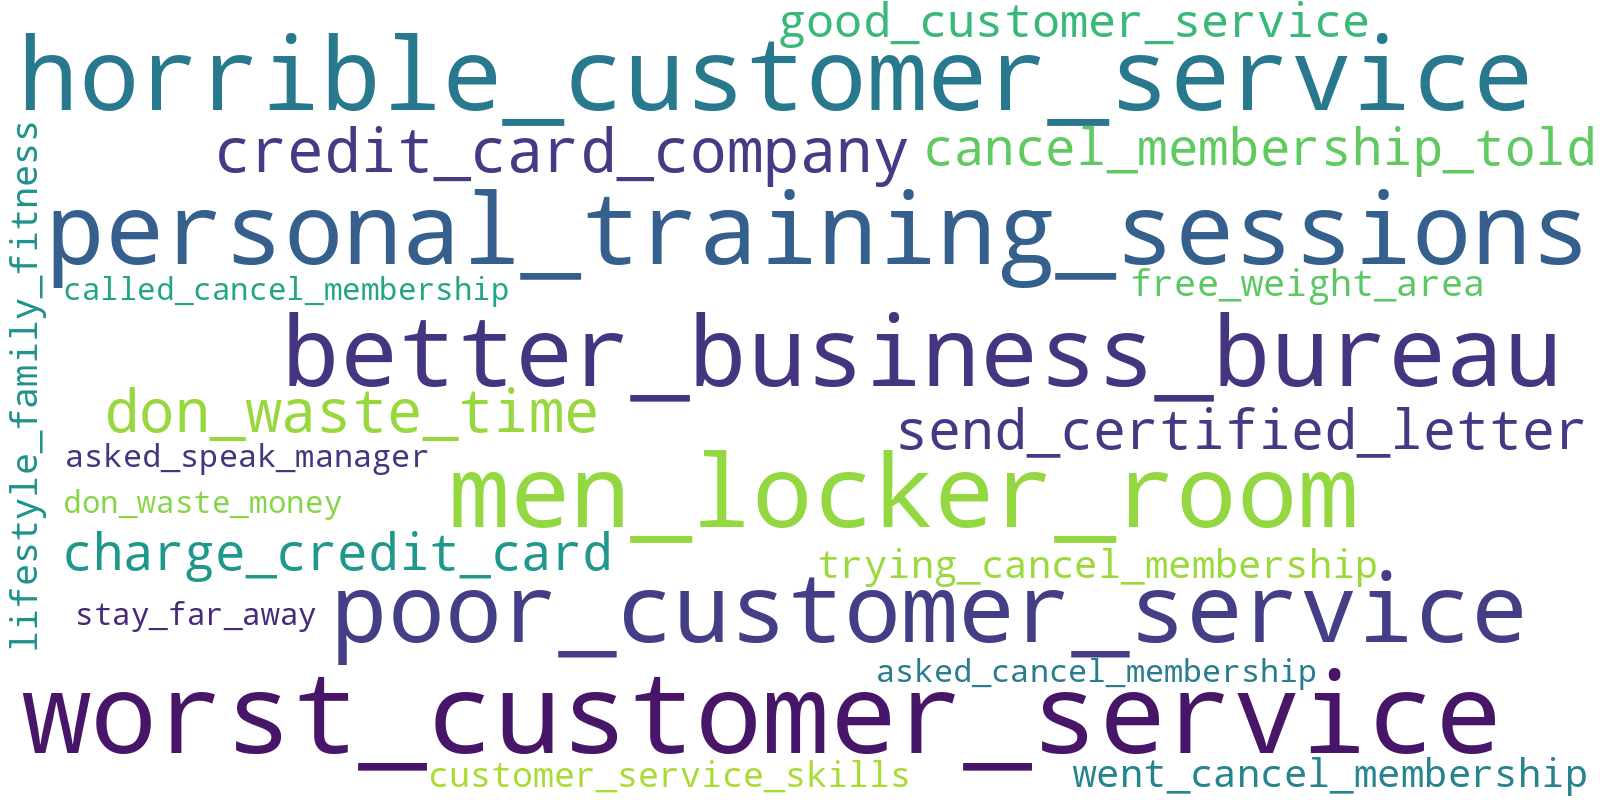
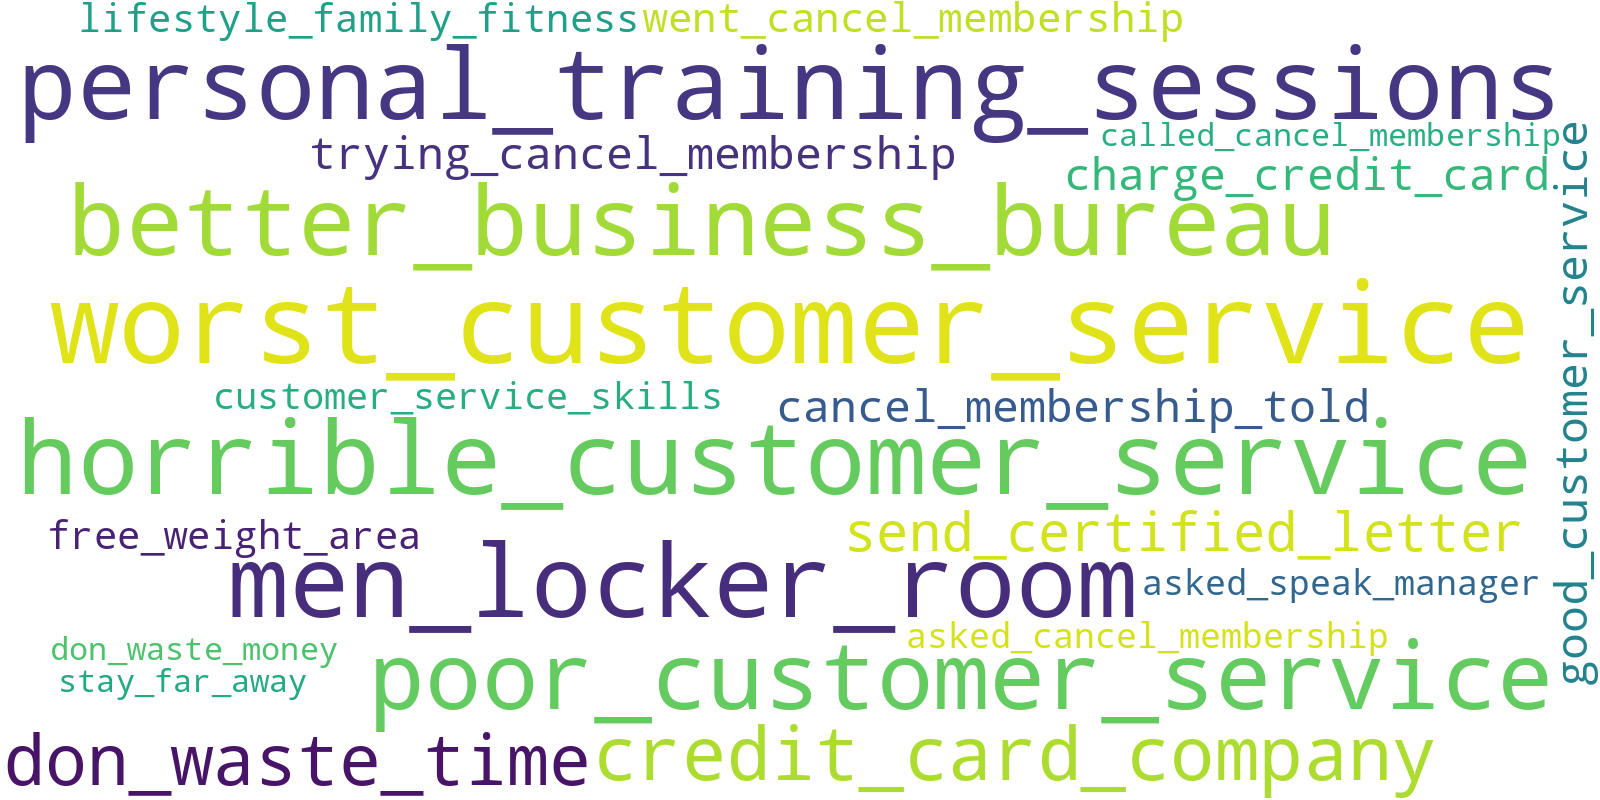
Adding NLP process to readme, removing parallelism on db creation, fixing image files creation

diff --git a/jsons.py b/jsons.py
@@ -361,29 +361,45 @@ def populate_user_table() -> None:
     print("Successfully populated the user table")
 
 
+# def transform_json_to_sql() -> None:
+#     print("Creating database:")
+#     create_db()
+#     print("Database created successfully\nPopulating tables")
+#     with ProcessPoolExecutor() as e:
+#         futures = [
+#             e.submit(populate_business_table),
+#             e.submit(populate_review_table),
+#             e.submit(populate_tip_table),
+#             e.submit(populate_user_table)
+#         ]
+        
+#         dones, _ = wait(futures)
+
+#         for done in dones:
+#             try:
+#                 done.result()
+#             except FileNotFoundError:
+#                 print("Some file(s) from the Yelp Database was(were) not found")
+#                 print("Make sure to download and store them with the specified format")
+#                 print("./yelp_json/{here the json files}")
+#                 print("https://business.yelp.com/data/resources/open-dataset/")
+#                 sys.exit(1)
+
 def transform_json_to_sql() -> None:
-    print("Creating database:")
+    print("Creating databases:")
     create_db()
     print("Database created successfully\nPopulating tables")
-    with ProcessPoolExecutor() as e:
-        futures = [
-            e.submit(populate_business_table),
-            e.submit(populate_review_table),
-            e.submit(populate_tip_table),
-            e.submit(populate_user_table)
-        ]
-        
-        dones, _ = wait(futures)
-
-        for done in dones:
-            try:
-                done.result()
-            except FileNotFoundError:
-                print("Some file(s) from the Yelp Database was(were) not found")
-                print("Make sure to download and store them with the specified format")
-                print("./yelp_json/{here the json files}")
-                print("https://business.yelp.com/data/resources/open-dataset/")
-                sys.exit(1)
+    try:
+        populate_business_table()
+        populate_review_table()
+        populate_tip_table()
+        populate_user_table()
+    except FileNotFoundError:
+        print("Some file(s) from the Yelp Database was(were) not found")
+        print("Make sure to download and store them with the specified format")
+        print("./yelp_json/{here the json files}")
+        print("https://business.yelp.com/data/resources/open-dataset/")
+        sys.exit(1)
 
 def main() -> int:
     transform_json_to_sql()

diff --git a/nlp.py b/nlp.py
@@ -225,7 +225,6 @@ def plot_wc(freqs, title, filename=None, width=1600, height=800):
         out = WC_DIR + '/' + filename
         wc.to_file(str(out))
         print("Guardado:", out)
-    plt.show()
 
 TOP_N_CLOUD = 200
 def top_n_freq(d, n=200):
@@ -234,13 +233,13 @@ def top_n_freq(d, n=200):
 bad_all_freq  = merge_freqs((bad_uni_f, 1.0), (bad_bi_f, 1.25), (bad_tri_f, 1.5))
 good_all_freq = merge_freqs((good_uni_f, 1.0), (good_bi_f, 1.25), (good_tri_f, 1.5))
 
-# plot_wc(top_n_freq(bad_all_freq,  TOP_N_CLOUD),  "Reseñas MALAS — Uni+Bi+Tri (limpios)",  "wc_bad_all.png")
-# plot_wc(top_n_freq(good_all_freq, TOP_N_CLOUD), "Reseñas BUENAS — Uni+Bi+Tri (limpios)", "wc_good_all.png")
+plot_wc(top_n_freq(bad_all_freq,  TOP_N_CLOUD),  "Reseñas MALAS — Uni+Bi+Tri (limpios)",  "wc_bad_all.png")
+plot_wc(top_n_freq(good_all_freq, TOP_N_CLOUD), "Reseñas BUENAS — Uni+Bi+Tri (limpios)", "wc_good_all.png")
 
-# plot_wc(pairs_to_freq(bad_uni_f),  "MALAS — Unigramas (limpios)",  "wc_bad_uni.png")
-# plot_wc(pairs_to_freq(bad_bi_f),   "MALAS — Bigramas (limpios)",   "wc_bad_bi.png")
-# plot_wc(pairs_to_freq(bad_tri_f),  "MALAS — Trigramas (limpios)",  "wc_bad_tri.png")
+plot_wc(pairs_to_freq(bad_uni_f),  "MALAS — Unigramas (limpios)",  "wc_bad_uni.png")
+plot_wc(pairs_to_freq(bad_bi_f),   "MALAS — Bigramas (limpios)",   "wc_bad_bi.png")
+plot_wc(pairs_to_freq(bad_tri_f),  "MALAS — Trigramas (limpios)",  "wc_bad_tri.png")
 
-# plot_wc(pairs_to_freq(good_uni_f), "BUENAS — Unigramas (limpios)", "wc_good_uni.png")
-# plot_wc(pairs_to_freq(good_bi_f),  "BUENAS — Bigramas (limpios)",  "wc_good_bi.png")
-# plot_wc(pairs_to_freq(good_tri_f), "BUENAS — Trigramas (limpios)", "wc_good_tri.png")
+plot_wc(pairs_to_freq(good_uni_f), "BUENAS — Unigramas (limpios)", "wc_good_uni.png")
+plot_wc(pairs_to_freq(good_bi_f),  "BUENAS — Bigramas (limpios)",  "wc_good_bi.png")
+plot_wc(pairs_to_freq(good_tri_f), "BUENAS — Trigramas (limpios)", "wc_good_tri.png")

diff --git a/README.md b/README.md
@@ -291,3 +291,15 @@ The final result is a master file named `business.parquet`, which combines:
 - Core business details  
 - Cleaned working schedules (`working_days`)  
 - Normalized features (`features`)
+
+---
+
+## Natural Language Processing
+
+The objective of this section was to use natural language processing (NLP) as a tool to translate customer opinions into operational decisions for our project.
+
+This NLP section separates bad reviews (1-2 stars) and good reviews (4-5 stars), cleans the text, and extracts n-grams (uni/bi/tri) with CountVectorizer. After analyzing the initial results, it was decided to filter out noise (brands, locations, generic phrases, and artifacts) to retain actionable terms. Then, with these final terms, clean word clouds are generated, weighting phrases more than single words to highlight consistent patterns.
+
+With this, we can evaluate, for our project, what to avoid (e.g., cancellation/payment friction, neglected locker rooms) and what to promote (friendly staff, cleanliness, equipment availability).
+
+Translated with DeepL.com (free version)
